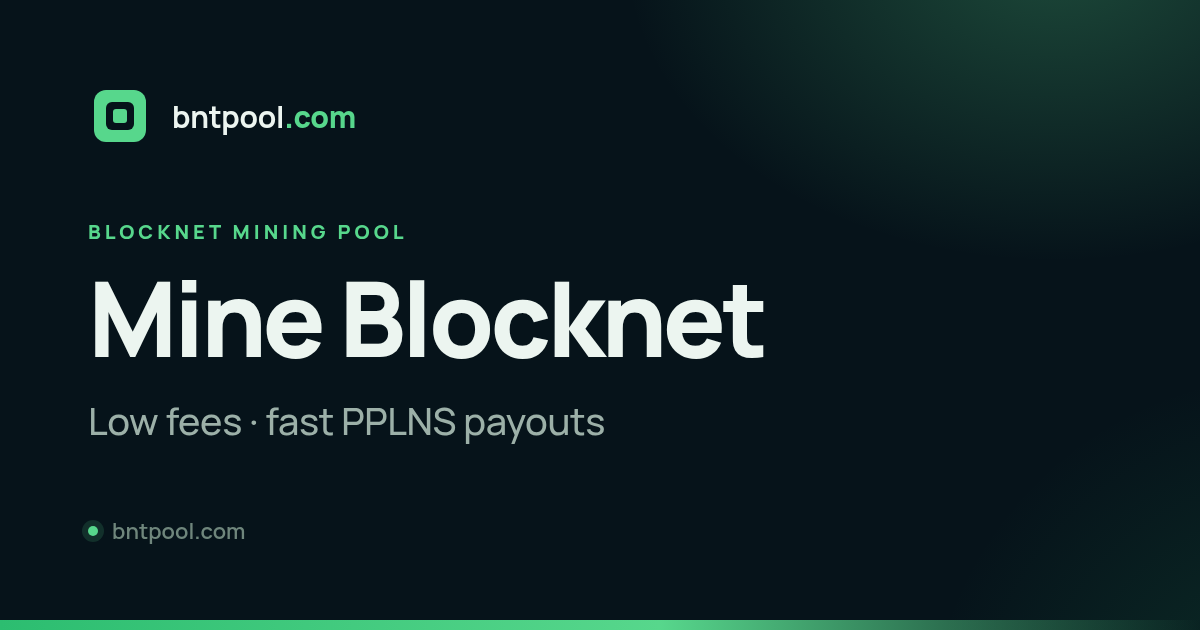
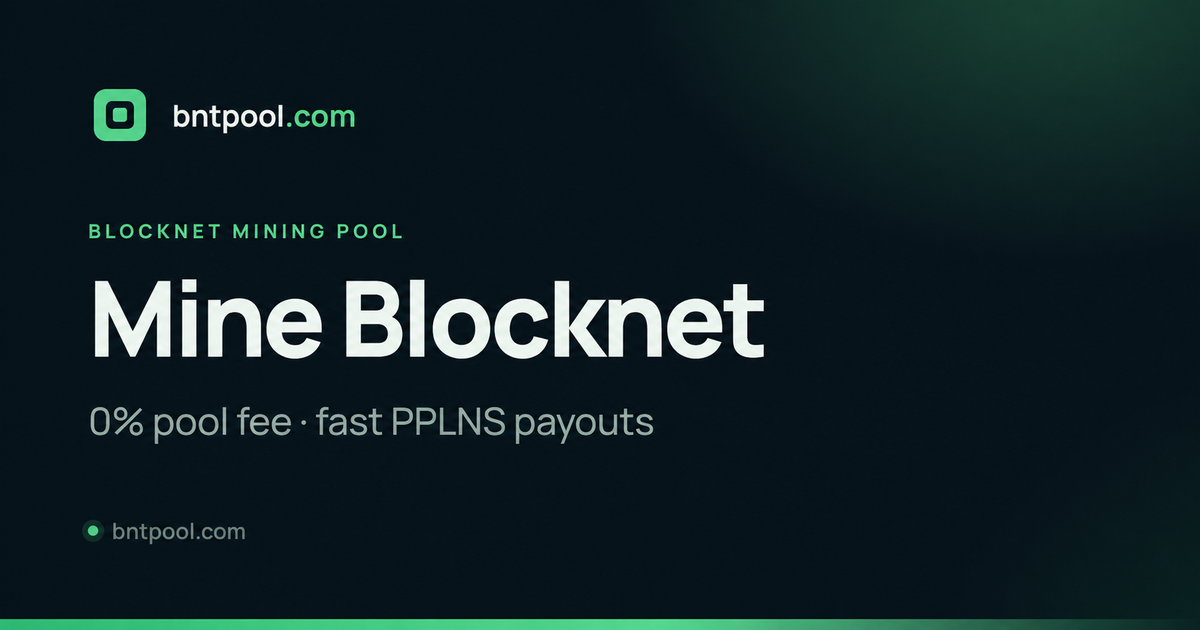
Advertise the zero pool fee in BNTpool social previews

diff --git a/frontend/showcases/social-preview/index.html b/frontend/showcases/social-preview/index.html
@@ -1,0 +1,15 @@
+<!doctype html>
+<html lang="en"><meta charset="utf-8"><meta name="viewport" content="width=device-width, initial-scale=1">
+<title>BNTpool social preview showcase</title>
+<style>body{margin:0;background:#07151a;color:#ebf5f0;font:16px/1.6 system-ui,sans-serif}main{max-width:1200px;margin:auto;padding:24px}h1{font-size:26px}h2{font-size:20px}p{max-width:75ch;color:#a6b9b1}img{display:block;width:100%;height:auto}article{margin:32px 0}small{color:#a6b9b1}</style>
+<main><h1>BNTpool social previews</h1><p>Production social cards and shared page descriptions. Static previews have one state and are independent of live pool data.</p><small>Source: zero-fee metadata change based on 0126c3b.</small><div id="cards"></div></main>
+<script type="module">
+const pages=await (await fetch('../../src/lib/page-meta.json')).json();
+for(const path of ['/', '/start']){
+ const meta=pages[path], article=document.createElement('article');
+ const heading=document.createElement('h2');heading.textContent=meta.title+' · '+path;
+ const image=document.createElement('img');image.src='../../../apps/blocknet-pool-api/src/ui/assets/'+meta.image;image.alt=meta.title+' social card';image.width=1200;image.height=630;
+ const description=document.createElement('p');description.textContent=meta.description;
+ article.append(heading,image,description);document.querySelector('#cards').append(article);
+}
+</script></html>

diff --git a/frontend/showcases/social-preview/README.md b/frontend/showcases/social-preview/README.md
@@ -1,0 +1,17 @@
+# BNTpool social preview showcase
+
+Source: zero-fee metadata change based on `0126c3b`. The gallery reads the real production PNG assets and shared metadata directly. These static cards have no loading, empty, error, or disabled variants. Desktop (1280px) and mobile (390px) captures are included.
+
+Start from the repository root:
+
+```sh
+python3 -m http.server 8878 --bind 0.0.0.0
+```
+
+Stable URL: http://localhost:8878/frontend/showcases/social-preview/
+
+The homepage and Get Started descriptions advertise the 0% pool fee across search, Open Graph, Twitter and all 20 supported languages. The fee wording is scoped to the pool.
+
+The homepage card was edited with the built-in imagegen tool, then resized to 1200×630. Prompt: replace only “Low fees · fast PPLNS payouts” with “0% pool fee · fast PPLNS payouts”; preserve the original layout, branding, colors and other text.
+
+Validation: production frontend build and localization checks passed. 28 of 29 frontend tests passed; the existing rewards calculator test expects Seine v0.2.39 while the existing release data is v0.2.42. Neither file changed here.
